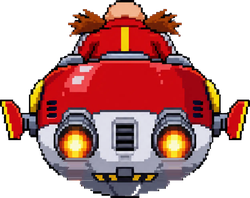
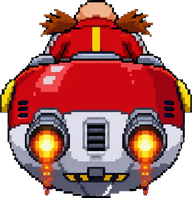
A Fuga do Sonic: nave do Robotnik sem as pernas laterais
Tira as barbatanas e os braços cinza das laterais da nave e devolve o
fogo dos propulsores (que tinha sido removido por engano). Tamanho de
desenho ajustado para manter a mesma escala.

Claude-Session: https://claude.ai/code/session_01BtSrh5gNRoAHBV4DaZsMQ7

diff --git a/public/games/A Fuga do Sonic.html b/public/games/A Fuga do Sonic.html
@@ -289,8 +289,8 @@
 
         // Perseguidor: o Robotnik na nave, flutuando atrás do Sonic e seguindo a faixa dele com atraso
         function Chaser() {
-            this.width = 118;
-            this.height = this.width * 198 / 250;
+            this.width = 91;
+            this.height = this.width * 198 / 192;
             this.x = canvas.width / 2 - this.width / 2;
             this.baseY = canvas.height - this.height + 6;
             this.t = 0;
